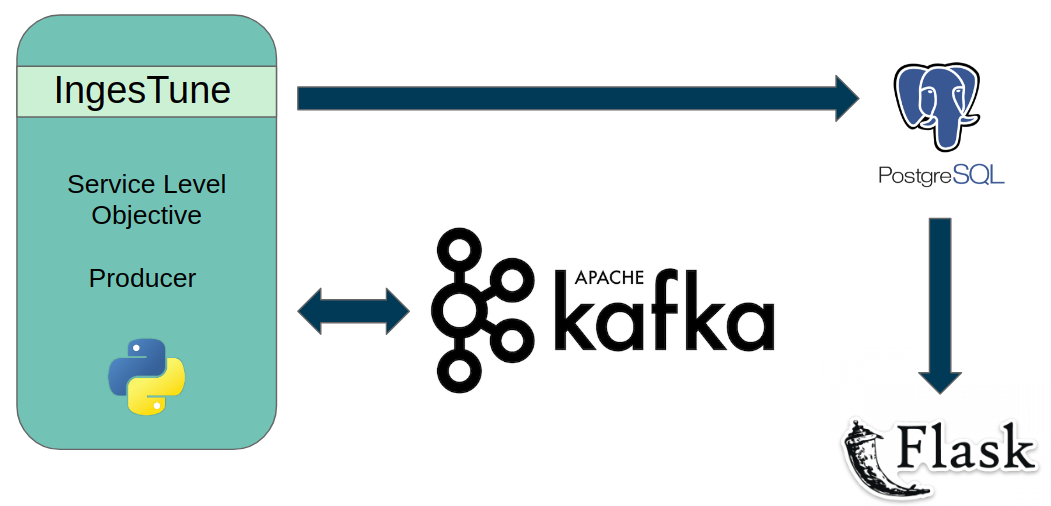
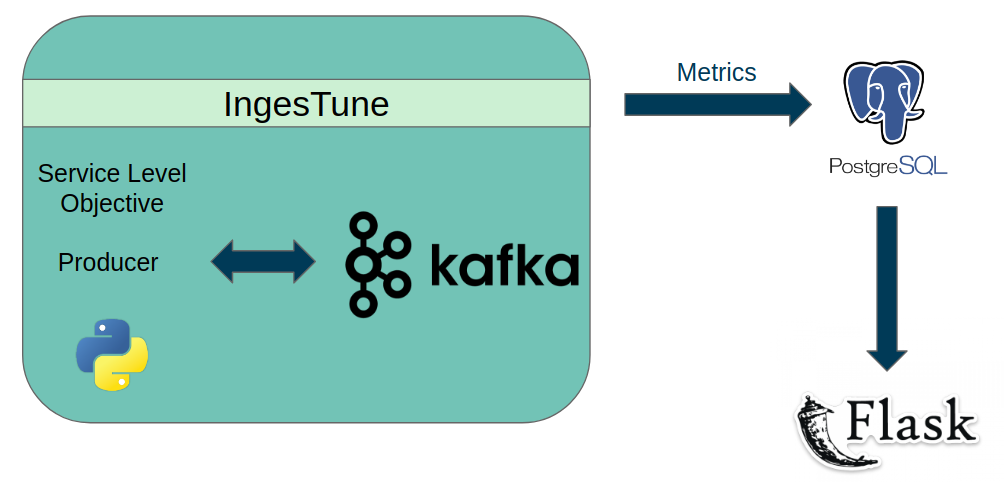
partially updated documentation

diff --git a/README.md b/README.md
@@ -1,27 +1,17 @@
-# Reactive Streaming Pipeline
+# IngesTune
+## Performance tuning for Apache Kafka
 
-The purpose of this project is to design and implement a *reactive* streaming system as part of an end-to-end pipeline that involves streaming data ingestion, processing, and storage. By *reactive*, I mean a streaming pipeline that scales automatically with the incoming stream (self-tuning, self-stabilize, and self-heal). This is useful for any project that deals with a streaming data source. Specific use cases include handling dynamic stream rates (data **velocity** is non constant), complicated event processing (data **computation** is challenging), data skew (poor **distribution** of data between processing units), and tuning from scratch (user has no idea how many instances to spin up).
-
-## Target Infrastructure
-
-The infrastucture is completely centered on the streaming pipeline.
-
-
-![alt](https://github.com/chrischaplin/reactiveStream/blob/master/figs/DE_Project_Pipeline.jpg)
+The purpose of this project is to build a tuning framework around Apache Kafka.
+Kafka is a distributed ingestion tool used in a wide variety of big data platforms.
 
 
 
-## Reactive Abstraction
+## Project Pipeline
 
-This project *still* ultimately intends to use the Dhalion[1] abstraction for self-regulation.
-
-![alt](https://github.com/chrischaplin/reactiveStream/blob/master/figs/dhalion_abstract.png)
+![alt](https://github.com/chrischaplin/Ingestune/blob/master/figs/pipeline.jpg)
 
 
 
-## Minimum Viable Product
+## Results
 
-The minimum viable product (MVP) will be focused on building a simple wrapper around Kafka.
-The wrapper will manange a simple producer/topic/consumer paradigm.
-
-![alt](https://github.com/chrischaplin/reactiveStream/blob/master/figs/MVP.jpg)
+[Ingestune Results](http://www.ingestune.com)

diff --git a/install/install.md b/install/install.md
@@ -3,20 +3,18 @@
 This document will serve as a manual for cluster configuration.
 
 
-## Batch Processing Cluster
-The pegasus pipeline tool (examples/spark/…) works like a charm for simple Hadoop+Spark applications.
+## Overview
 
-Todo: Need to explore the issue of setting up a database
+I used a total of six ec2 instances for this project.
+Three nodes were used for kafka and zookeeper.
+One node was used as a python producer.
+One node was used for the PostgreSQL database.
+One node was used to serve the flask web ui.
 
-## Streaming Processing Cluster
-There are pegasus installation/configuration scripts for zookeeper, storm, and kafka. The question is if these are truly reliable and are they actually allowing us to build out our cluster in the correct manner.
 
-### Heron
-Using the following this blog post: [link](http://streamanalytics.blogspot.com/2016/06/deploying-heron-on-cluster-of-machines.html)
+### Installation Instructions
 
-I am using terminator to manage broacasting to terminal groups.
-The pegasus braodcast ssh tool could also work, but it is slower and more bulky.
+The kafka cluster is built using pegasus (https://github.com/InsightDataScience/pegasus.git).
+The configuration file(s) and start up script are in the kafka-cluster sub-directory.
 
-Personal Notes:
-* hdfs fs appears to be outdated, use hdfs dfs
-* hdfs dfs -mkdir -p (p is required if a parent directory also must be created) 
+Finish this later...
